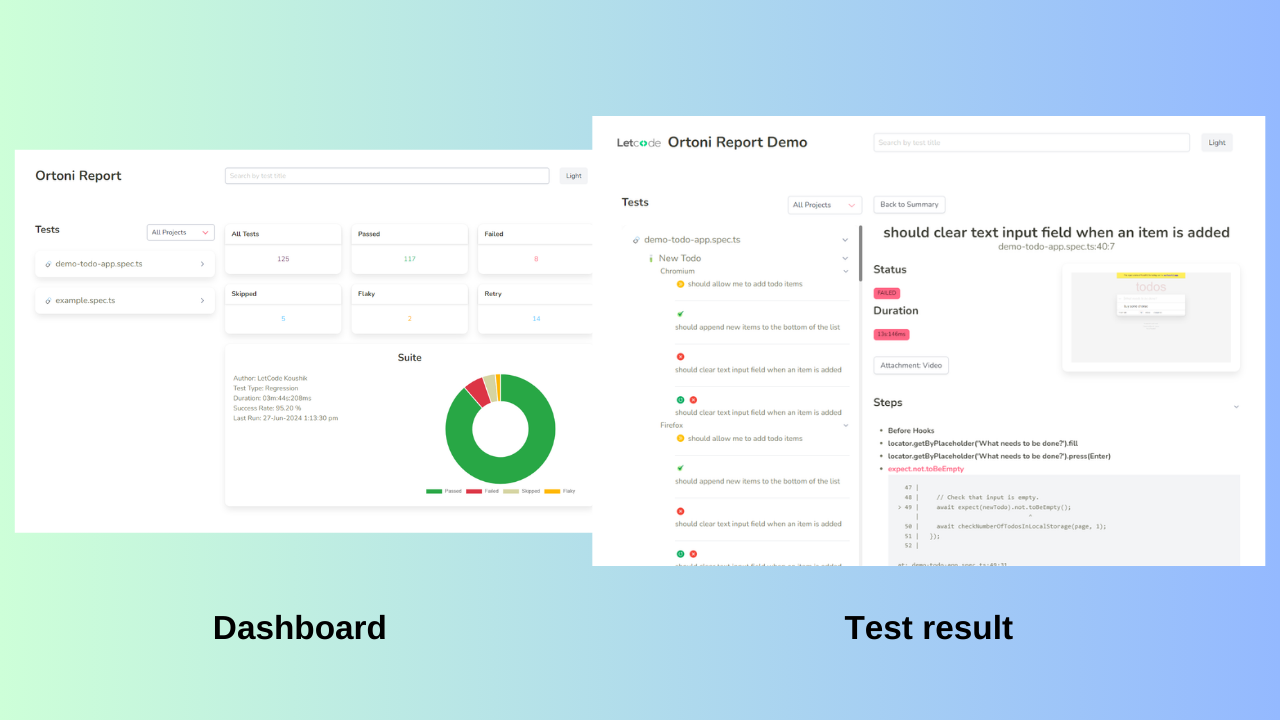
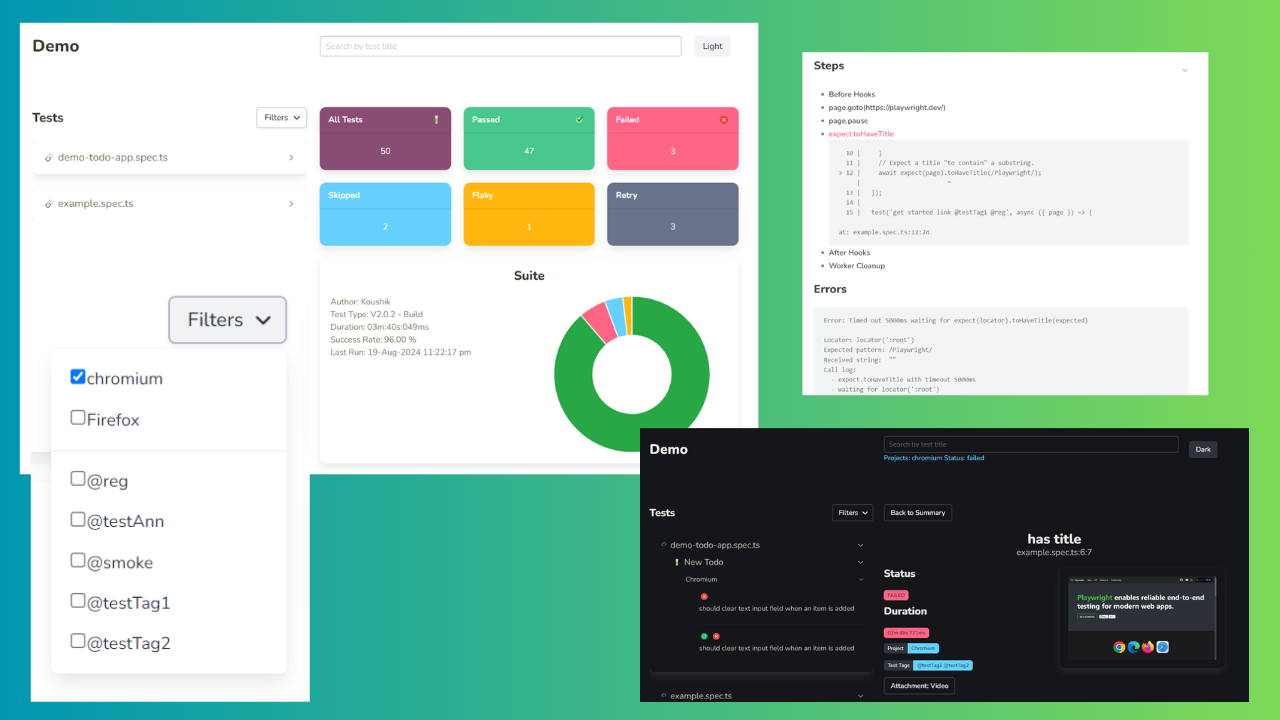
📖 DOC: V2.0.2

diff --git a/readme.md b/readme.md
@@ -1,10 +1,14 @@
-# Playwright Report by Koushik
+Here's an improved version of the README file that incorporates the recent changes:
 
-Welcome to Ortoni Report (Playwright report - unofficial), a robust HTML report generator tailored for Playwright tests. Ortoni Report introduces powerful features to enhance test reporting, making it easier to visualize and manage test results.
+---
+
+# Ortoni Report (Unofficial Playwright Report) by Koushik
+
+Welcome to **Ortoni Report**, a robust HTML report generator tailored for Playwright tests. Ortoni Report introduces powerful features to enhance test reporting, making it easier to visualize and manage test results.
 
 Explore the live demo: [OrtoniReport Demo](https://ortoni.netlify.app/)
 
-![alt text](Ortoni-Report.png)
+![Ortoni Report Preview](Ortoni-Report.png)
 
 ## Key Features
 
@@ -15,7 +19,7 @@ Explore the live demo: [OrtoniReport Demo](https://ortoni.netlify.app/)
    - Each suite includes categorized tests under respective projects, providing clear organization.
 
 3. **Comprehensive Test Details**
-   - Display test status (passed, failed, skipped), duration, errors, logs, and screenshots.
+   - Display test status (passed, failed, skipped), duration, tags, errors, logs, and screenshots.
    - Sort and filter tests by suite, project, and script for detailed insights.
 
 4. **Summary Statistics**
@@ -31,8 +35,8 @@ Explore the live demo: [OrtoniReport Demo](https://ortoni.netlify.app/)
 
 7. **Customization and Themes**
    - Customize project details, author name, test types, and toggle between dark/light themes.
-   - Option to choose between Base64 images or file path for screenshots.
-   - User can set the report file name
+   - Option to choose between Base64 images or file paths for screenshots.
+   - Users can set the report file name.
 
 8. **Responsive Design**
    - Optimized layout that adapts seamlessly to different screen sizes for accessibility.
@@ -40,17 +44,28 @@ Explore the live demo: [OrtoniReport Demo](https://ortoni.netlify.app/)
 9. **Integration and Configuration**
    - Easily integrate with Playwright configurations using TypeScript/JavaScript.
    - Configure reporting preferences within your Playwright setup.
-   
-10. **Add logo to the report**
-      - Add relative or absolute path of the image to the config.
 
-11. **Share report**
-      - Generat the report and zip the folder and share.   
+10. **Add Logo to the Report**
+    - Add a relative or absolute path of the image to the config.
 
+11. **Share Report**
+    - Generate the report, zip the folder, and share it.
 
-### How to Use ortoni-report
+12. **Advanced Filtering**
+    - Filter tests by project, tags, and status simultaneously, with the ability to display only those tests matching the selected criteria.
 
-### Installation
+13. **Colorful Dashboard**
+    - Enhanced the visual appeal of the dashboard with vibrant and intuitive colors.
+
+14. **Display Selected Status on UI**
+    - The selected status filter is now visible on the UI, making it easier to track the current filter settings.
+
+15. **Hide Skipped Tests by Default**
+    - Skipped tests are now hidden by default when using the "All Tests" filter, providing a cleaner and more focused view of relevant tests.
+
+### How to Use Ortoni Report
+
+#### Installation
 
 1. **Install the ortoni-report package**:
 
@@ -58,9 +73,9 @@ Explore the live demo: [OrtoniReport Demo](https://ortoni.netlify.app/)
     npm install -g ortoni-report
     ```
 
-### Generate and Bundle HTML Report
+#### Generate and Bundle HTML Report
 
-2. **Generate and bundle the report** (Optional):
+2. **Generate and bundle the report**:
 
     ```sh
     npx ortoni-report gr -f ortoni-report.html
@@ -69,7 +84,7 @@ Explore the live demo: [OrtoniReport Demo](https://ortoni.netlify.app/)
 ### Command Overview
 
 - `npx ortoni-report gr -f <filename>`: Bundle the specified report file.
-  - `-f, --filename <filename>`: Specify the filename for the generated report (default: `ortoni-report.html`).   
+  - `-f, --filename <filename>`: Specify the filename for the generated report (default: `ortoni-report.html`).
 
 ### Configurable Report Generation
 
@@ -80,13 +95,15 @@ import { defineConfig } from '@playwright/test';
 import { OrtoniReportConfig } from 'ortoni-report';
 
 const reportConfig: OrtoniReportConfig = {
-  filename:"myawesomereport.html",
-  logo: "path/logo.png",
+  base64Image: true,
+  logo: "logo.png",
+  title: "Playwight Sample Project",
+  showProject: true,
+  filename: "result",
   authorName: "LetCode Koushik",
-  base64Image: false,
-  preferredTheme: "dark",
-  projectName: "Ortoni Demo Report",
-  testType: "Smoke"
+  preferredTheme: "light",
+  projectName: "Ortoni Report Demo",
+  testType: "V2.0.2 - Build"
 }
 
 export default defineConfig({
@@ -96,30 +113,25 @@ export default defineConfig({
 ```
 
 ### Common Issue
+
 ```
 Error: Command failed:
 @parcel/namer-default: Target "main" declares an     
 output file path of "index.js" which does not match  
 the compiled bundle type "html".
 ```
-Solution:
-Remove "main" in the ```package.json``` file
+
+**Solution**: Remove `"main"` in the `package.json` file.
 
 ### Comprehensive Test Details
 
-- **Rich Test Information:** Each test includes details like title, status, duration, tags, errors, steps, logs, video, and screenshot.
-- **Color-coded Status:** Status indicators (green for passed, red for failed, yellow for skipped) for quick identification.
-
-### Handlebars Template Integration
-
-- **Customizable Reports:** HTML reports are generated using Handlebars templates, offering flexibility in customization and styling.
-- **JSON Helper:** Includes a custom Handlebars helper for managing complex data structures.
+- **Rich Test Information**: Each test includes details like title, status, duration, tags, errors, steps, logs, video, and screenshot.
+- **Color-coded Status**: Status indicators (green for passed, red for failed, yellow for skipped) for quick identification.
 
 ### Future Plans
 
-- **Enhanced Customization:** Additional options for customizing report appearance and structure.
-- **CI/CD Integration:** Improved support for CI/CD environments.
-- **Advanced Filtering:** Expanded filtering capabilities to focus on specific test subsets.
+- **Enhanced Customization**: Additional options for customizing report appearance and structure.
+- **CI/CD Integration**: Improved support for CI/CD environments.
 
 ### Change Logs
 
@@ -133,10 +145,10 @@ View the [LICENSE](https://github.com/ortoniKC/ortoni-report/blob/main/LICENSE.m
 
 We value your feedback and contributions! For issues, suggestions, or contributions, visit our [GitHub repository](https://github.com/ortoniKC/ortoni-report).
 
-Thank you for choosing OrtoniReport. We're committed to enhancing your Playwright testing experience.
+Thank you for choosing Ortoni Report. We're committed to enhancing your Playwright testing experience.
 
 ---
 
 **LetCode with Koushik**
 
----
+--- 

diff --git a/changelog.md b/changelog.md
@@ -1,5 +1,42 @@
 # Change Log:
 
+## Version 2.0.2
+
+#### 🚀 New Features
+
+- **Show or Hide Projects in Test List**
+  - You can now show or hide specific projects in the test list.
+  - ```showProject: true``` from config
+  
+- **Document Title from Config**
+  - The document title is now configurable via the configuration file, allowing you to customize it to your preference.
+
+- **Display Tags in Test Section**
+  - Tags associated with tests are now displayed within the test section, giving you a clearer overview of test categories.
+
+- **Project and Tags Added to Filter**
+  - We've added the ability to filter tests by both project and tags, enhancing the granularity of your test views.
+  
+- **Display Selected Status on UI**
+  - The selected status filter is now visible on the UI, making it easier to track the current filter settings.
+
+#### 🛠 Fixes
+
+- **Project Drop-down Z-Index on Screenshot**
+  - Resolved an issue where the project drop-down menu was being overlapped by screenshots. The z-index has been adjusted for proper layering.
+
+- **Project Filter Hide Test Steps**
+  - Fixed a bug where applying the project filter would inadvertently hide test steps. Test steps are now correctly displayed based on the filter.
+
+#### ✨ Improvements
+
+- **Hide Skipped Tests on All Tests Filter**
+  - Skipped tests are now hidden by default when using the "All Tests" filter, providing a cleaner and more focused view of relevant tests.
+
+- **Colorful Dashboard**
+  - We've enhanced the visual appeal of the dashboard with more vibrant and intuitive colors, making it easier to navigate and interpret results.
+
+
 ## Version 2.0.1
 - Fixed local and root path issue of Parcel bundler.
 - Local config issue
